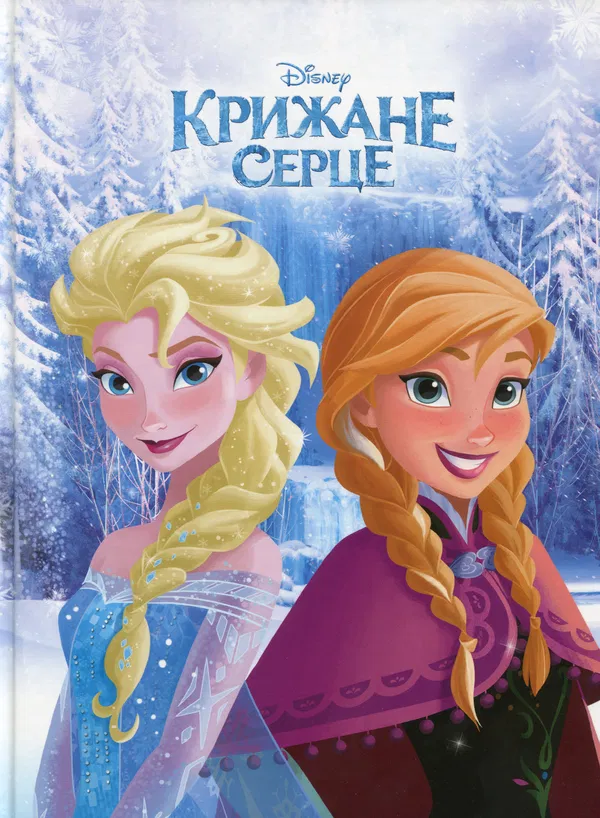
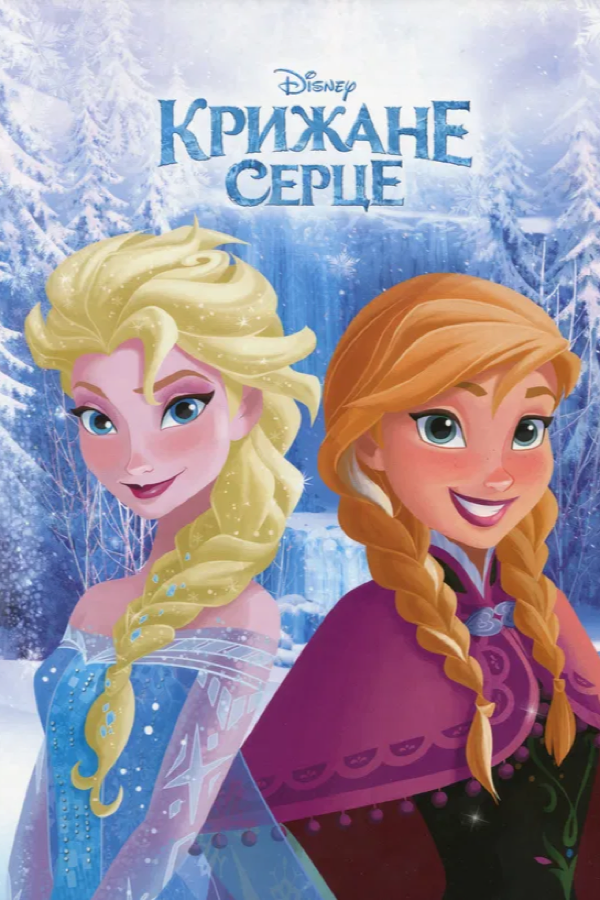
Normalize movie posters to uniform 600x900 crop for sharper cards.

diff --git a/src/app/lectures/kino/movies/page.tsx b/src/app/lectures/kino/movies/page.tsx
@@ -96,17 +96,17 @@ export default function MoviesPracticePage() {
             onClick={() => openMovie(i)}
             className="overflow-hidden rounded-xl border border-ink-line bg-ink-raised text-left transition-colors hover:border-gold"
           >
-            <div className="relative aspect-[2/3] w-full bg-ink">
-              {movie.poster && (
-                <Image
-                  src={movie.poster}
-                  alt={movie.title}
-                  fill
-                  sizes="(max-width: 640px) 50vw, 33vw"
-                  className="object-cover"
-                />
-              )}
-            </div>
+            {movie.poster && (
+              <Image
+                src={movie.poster}
+                alt={movie.title}
+                width={600}
+                height={900}
+                sizes="(max-width: 640px) 50vw, 33vw"
+                className="block aspect-[2/3] w-full bg-ink object-cover"
+                quality={95}
+              />
+            )}
             <div className="p-4">
               <p className="font-display text-base leading-snug text-paper sm:text-lg">{movie.title}</p>
               <div className="mt-3 flex gap-1.5">
@@ -129,9 +129,14 @@ export default function MoviesPracticePage() {
           <div className="w-full max-w-lg rounded-2xl border border-ink-line bg-ink-raised p-6">
             <div className="mb-4 flex items-start gap-4">
               {active.poster && (
-                <div className="relative h-20 w-14 shrink-0 overflow-hidden rounded-md border border-ink-line">
-                  <Image src={active.poster} alt="" fill sizes="56px" className="object-cover" />
-                </div>
+                <Image
+                  src={active.poster}
+                  alt=""
+                  width={56}
+                  height={84}
+                  className="h-20 w-14 shrink-0 rounded-md border border-ink-line object-cover"
+                  quality={95}
+                />
               )}
               <div className="min-w-0 flex-1">
                 <div className="flex items-center justify-between gap-3">
